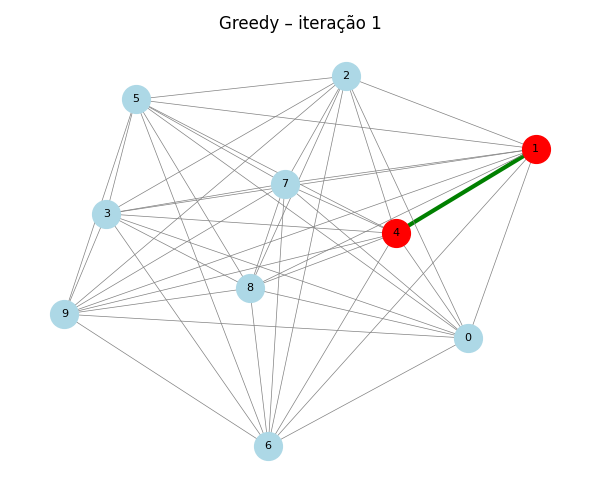
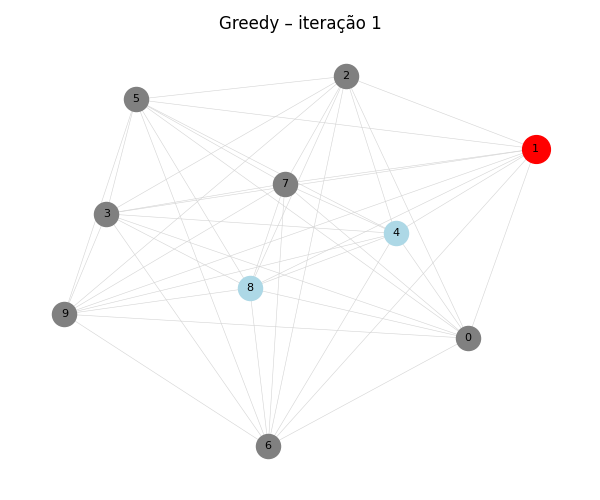
imprimindo em cinza os cobertos a cada iteração

diff --git a/main.py b/main.py
@@ -4,25 +4,35 @@ import matplotlib.pyplot as plt
 import os
 os.makedirs("frames", exist_ok=True)
 
-def draw_iteration(graph, picked, tour_edges, iteration):
-    pos = nx.spring_layout(graph, seed=42)            # posição fixa p/ todas figuras
+def draw_iteration(graph, picked, covered, tour_edges, iteration):
+    pos = nx.spring_layout(graph, seed=42)
     plt.figure(figsize=(6, 5))
-    # nós
+
+    # nós selecionados (vermelho)
     nx.draw_networkx_nodes(graph, pos,
-        nodelist=[v for v in graph.nodes if v in picked],
+        nodelist=list(picked),
         node_color="red", node_size=400)
+
+    # nós cobertos mas não selecionados (cinza)
     nx.draw_networkx_nodes(graph, pos,
-        nodelist=[v for v in graph.nodes if v not in picked],
-        node_color="lightblue", node_size=400)
+        nodelist=[v for v in covered if v not in picked],
+        node_color="gray", node_size=300)
+
+    # nós ainda não cobertos (azul-claro)
+    nx.draw_networkx_nodes(graph, pos,
+        nodelist=[v for v in graph.nodes if v not in covered],
+        node_color="lightblue", node_size=300)
+
     # arestas do tour (verde grosso)
     nx.draw_networkx_edges(graph, pos,
         edgelist=tour_edges, width=3, edge_color="green")
-    # arestas restantes em cinza fino
+
+    # arestas restantes (cinza fino)
     nx.draw_networkx_edges(graph, pos,
-        edgelist=[e for e in graph.edges if e not in tour_edges
-                                       and (e[1], e[0]) not in tour_edges],
-        width=0.5, edge_color="gray")
-    # rótulos
+        edgelist=[e for e in graph.edges
+                  if e not in tour_edges and (e[1], e[0]) not in tour_edges],
+        width=0.4, edge_color="lightgray")
+
     nx.draw_networkx_labels(graph, pos, font_size=8)
     plt.title(f"Greedy – iteração {iteration}")
     plt.axis("off")
@@ -99,12 +109,13 @@ def initialize_solution(graph, n, p, radius):
             best_node = resto[0]
         print(f"\nIteração {it+1}")
         print(f"  escolhido: {best_node}")          # +1 para id humano
-        print(f"  nova cobertura (ganho): {best_cov}")
-        print(f"  cobertos antes: {sorted(w+1 for w in covered)}")
+        covered_before = len(covered)
         solution.append(best_node)
         covered.update({w for w in graph.neighbors(best_node)
                         if graph[best_node][w]["weight"] <= radius})
         covered.add(best_node)
+        print(f"  nova cobertura (ganho): {len(covered) - covered_before}")
+        print(f"  cobertos depois: {sorted(w for w in covered)}")
         # ----- gerar tour parcial p/ desenho -------
         tour_edges = []
         if len(solution) > 1:
@@ -112,7 +123,7 @@ def initialize_solution(graph, n, p, radius):
             tour_edges = [(tour[i], tour[i+1]) for i in range(len(tour)-1)]
 
         # ----- desenhar / salvar figura ------------
-        draw_iteration(graph, solution, tour_edges, it)
+        draw_iteration(graph, solution, covered, tour_edges, it+1)
     return solution
 
 
